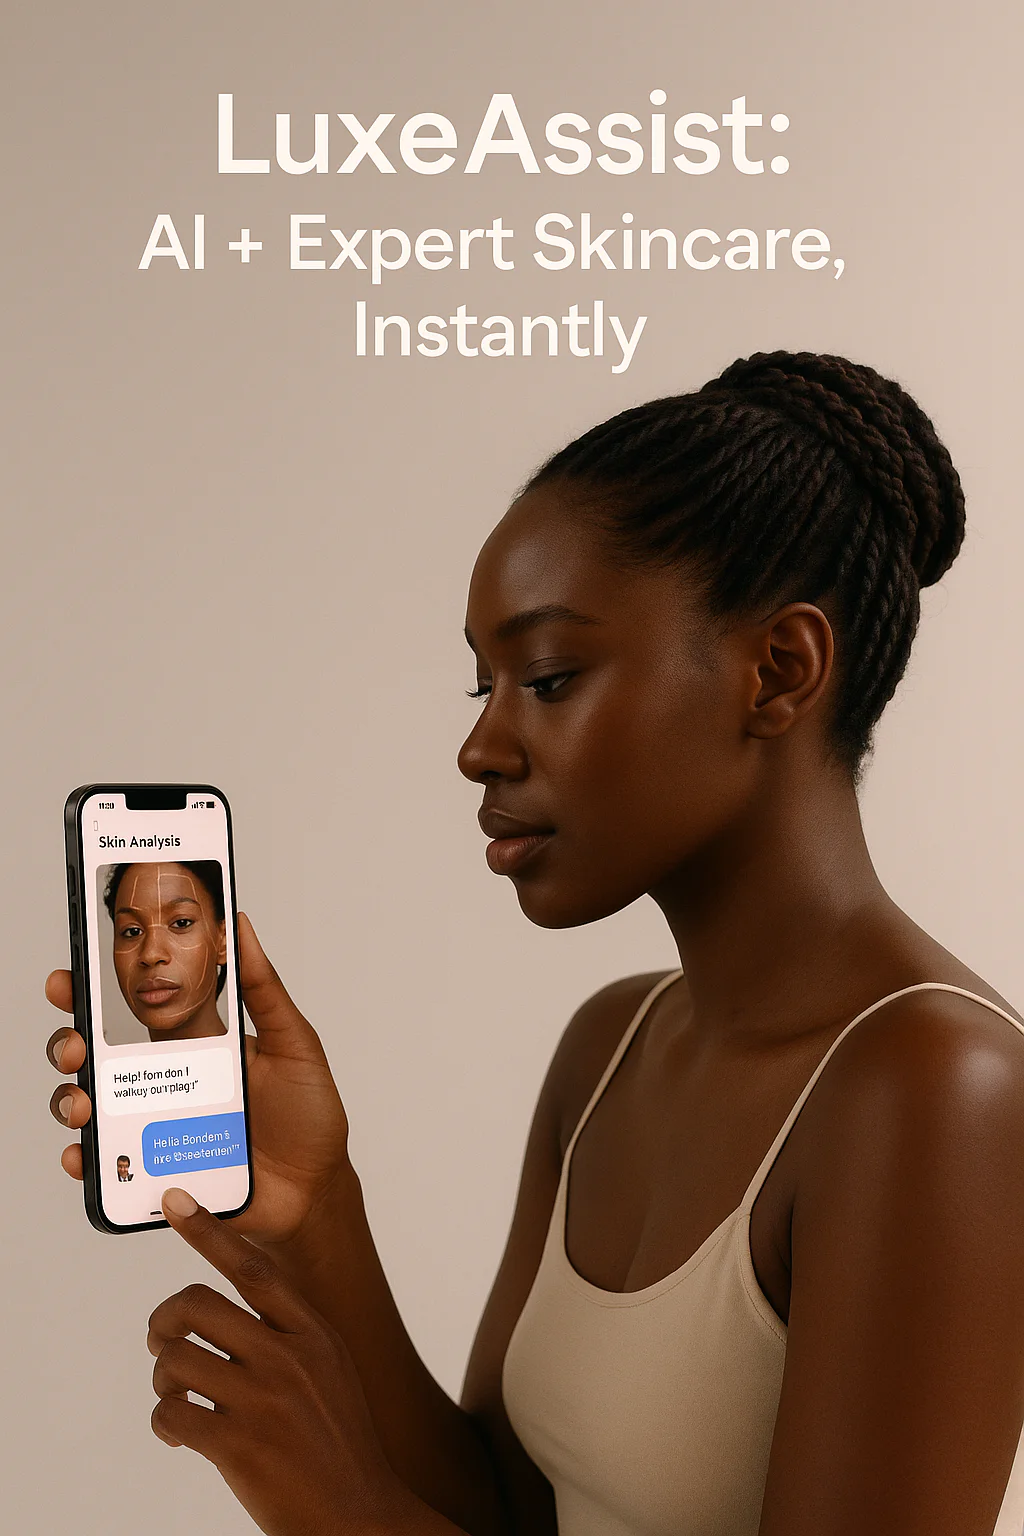
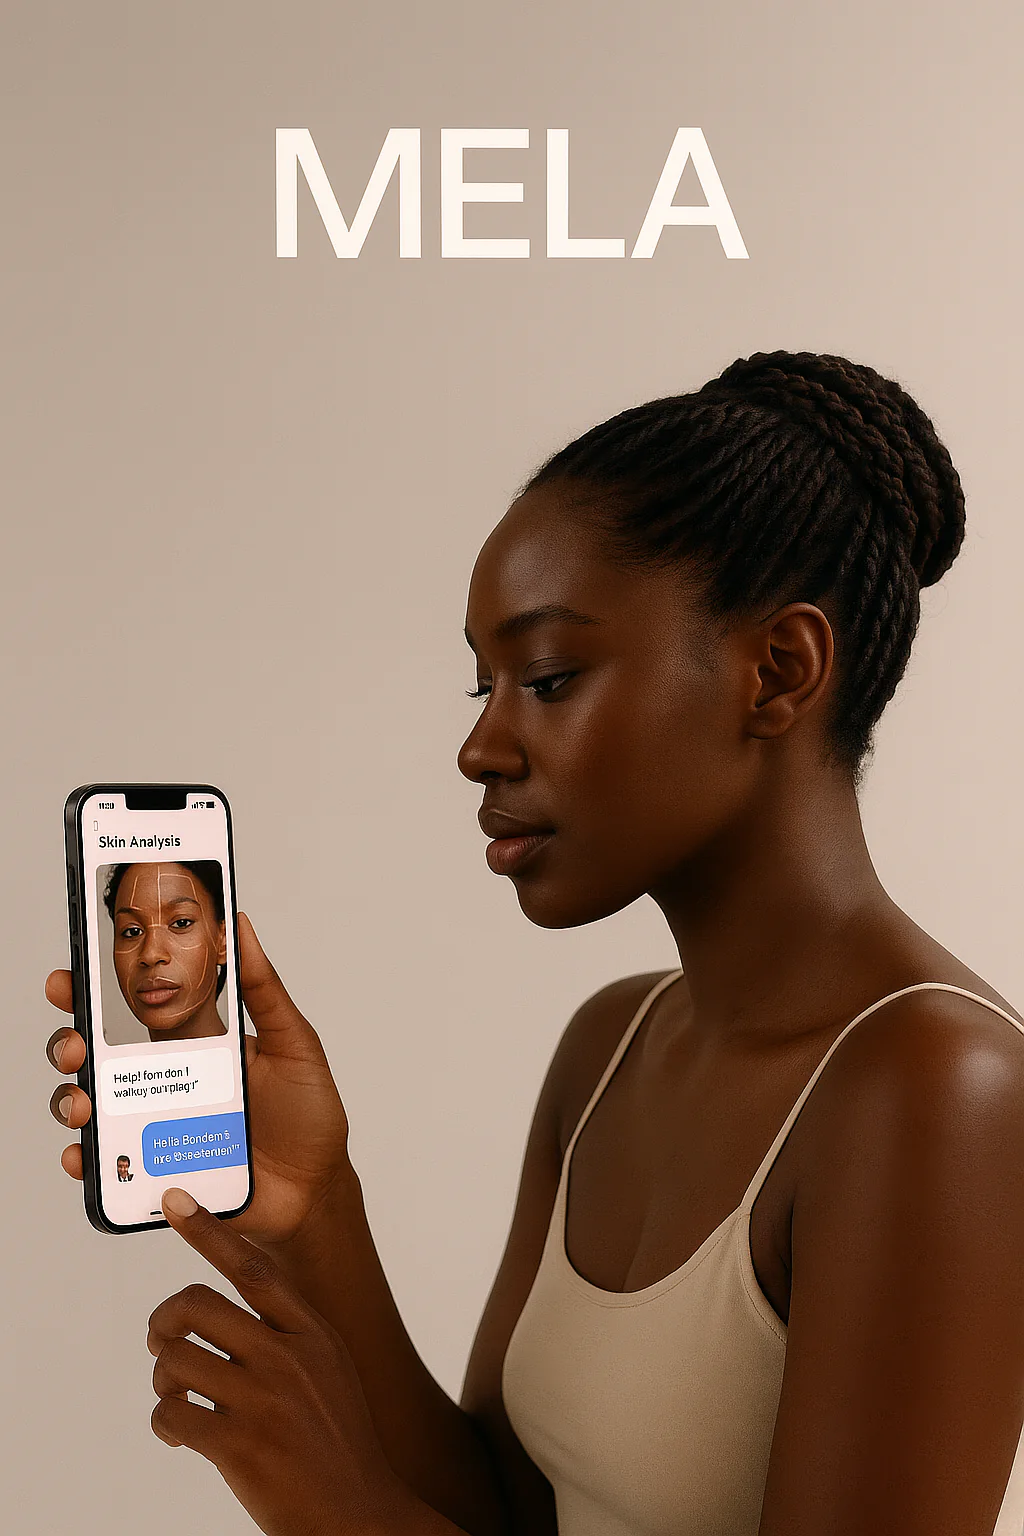
updates

Changed region(s): [[0.125, 0.0625, 0.8125, 0.25], [0.1875, 0.7188, 0.2188, 0.75], [0.1562, 0.75, 0.1875, 0.7812]]

diff --git a/src/app/page.jsx b/src/app/page.jsx
@@ -26,10 +26,10 @@ export default function MainComponent() {
           </div>
           <div className="text-center">
             <h1 className="mb-4 text-5xl md:text-6xl font-bold text-gray-900 font-playfair">
-              Melanin Luxe AI
+              Melanin Luxe
             </h1>
             <p className="text-xl md:text-2xl text-gray-700 font-inter max-w-3xl mx-auto mb-8">
-              Your Personalized Beauty Assistant for Melanin Rich Beauty
+              Your Personalized Beauty Assistant, Designed for Your Skin Tone
             </p>
             <button className="bg-[#FF69B4] hover:bg-[#FF1493] text-white font-inter px-8 py-4 rounded-md text-lg transition-all duration-200">
               Start Your Beauty Journey
@@ -63,7 +63,7 @@ export default function MainComponent() {
                 <div className="absolute inset-0 bg-gradient-to-b from-[#FF69B4]/20 to-transparent pointer-events-none z-20"></div>
                 <img
                   src="/melanin-luxe-app-preview.webp"
-                  alt="Discover Your Health"
+                  alt=""
                   className="w-full h-full object-cover"
                 />
                 <div className="absolute top-0 left-0 right-0 bottom-0 bg-black/5"></div>
@@ -129,14 +129,14 @@ export default function MainComponent() {
           <div className="relative max-w-6xl mx-auto px-4">
             <div className="text-center mb-16">
               <h2 className="text-5xl font-bold text-gray-900 font-playfair mb-6">
-                LuxeAssist: AI + Expert Skincare, Instantly
+                MELA: AI + Expert Skincare, Instantly
               </h2>
               <h3 className="text-2xl text-gray-700 font-inter mb-8">
                 AI-Powered Answers & Expert Connections, Anytime
               </h3>
               <p className="text-xl text-gray-600 font-inter max-w-3xl mx-auto leading-relaxed">
-                LuxeAssist provides instant, AI-driven answers and connects you
-                to our community of skincare experts. Get personalized guidance,
+                MELA provides instant, AI-driven answers and connects you to our
+                community of skincare experts. Get personalized guidance,
                 product recommendations, and expert advice, all within the
                 Melanin Luxe app.
               </p>
@@ -173,7 +173,7 @@ export default function MainComponent() {
                   <div className="absolute inset-0 bg-gradient-to-tr from-[#FF69B4]/20 to-transparent rounded-3xl"></div>
                   <img
                     src="/luxe-assist-preview.webp"
-                    alt="African woman receiving personalized skincare advice through LuxeAssist AI chat interface"
+                    alt="African woman using MELA app for AI-powered skin analysis"
                     className="w-full h-auto rounded-3xl shadow-2xl"
                   />
                 </div>
@@ -233,8 +233,8 @@ export default function MainComponent() {
           </p>
         </div>
 
-        <div className="py-20">
-          <div className="max-w-6xl mx-auto p-16 rounded-3xl bg-gradient-to-br from-white to-pink-50 border border-gray-100 shadow-xl">
+        <div className="py-20 text-center">
+          <div className="max-w-3xl mx-auto p-16 rounded-3xl bg-gradient-to-br from-white to-pink-50 border border-gray-100 shadow-xl">
             <div
               className="relative"
               style={{ animation: "slideInText 0.8s ease-out forwards" }}
@@ -255,106 +255,25 @@ export default function MainComponent() {
           </div>
         </div>
 
-        <div className="py-20 text-center">
-          <div className="max-w-3xl mx-auto p-12 rounded-3xl bg-white border border-gray-200 shadow-lg">
-            <h2 className="text-4xl font-bold text-gray-900 mb-4 font-playfair">
-              Ready to Start Your Beauty Journey?
-            </h2>
-            <p className="text-xl text-gray-700 mb-8">
-              Join thousands of users who have discovered their perfect skincare
-              routine
-            </p>
-            <button className="bg-[#FF69B4] hover:bg-[#FF1493] text-white font-inter px-8 py-4 rounded-md text-lg transition-all duration-200 mb-12">
-              Try Melanin Luxe AI Now
-            </button>
-            <div className="flex flex-col md:flex-row justify-center items-center gap-4">
-              <a
-                href="#"
-                className="w-[200px] h-[60px] bg-black hover:bg-gray-800 rounded-xl flex items-center justify-center px-4 py-2 transition-all duration-200 hover:scale-105"
-              >
-                <div className="flex items-center">
-                  <i className="fab fa-apple text-white text-3xl mr-3"></i>
-                  <div className="text-left">
-                    <div className="text-white text-xs">Download on the</div>
-                    <div className="text-white text-lg font-semibold">
-                      App Store
-                    </div>
-                  </div>
-                </div>
-              </a>
-              <a
-                href="#"
-                className="w-[200px] h-[60px] bg-black hover:bg-gray-800 rounded-xl flex items-center justify-center px-4 py-2 transition-all duration-200 hover:scale-105"
-              >
-                <div className="flex items-center">
-                  <i className="fab fa-google-play text-white text-2xl mr-3"></i>
-                  <div className="text-left">
-                    <div className="text-white text-xs">Get it on</div>
-                    <div className="text-white text-lg font-semibold">
-                      Google Play
-                    </div>
-                  </div>
-                </div>
-              </a>
-            </div>
-          </div>
-        </div>
-
-        <div className="py-20 bg-gradient-to-br from-white to-pink-50">
-          <div className="max-w-7xl mx-auto px-4 sm:px-6 lg:px-8">
-            <div className="text-center mb-16">
-              <h2 className="text-4xl font-bold text-gray-900 font-playfair mb-6">
-                License Our AI Technology
-              </h2>
-              <p className="text-xl text-gray-700 font-inter mb-8">
-                Empower your business with our advanced melanin-focused AI
-                skincare analysis technology
-              </p>
-            </div>
-
-            <div className="grid grid-cols-1 md:grid-cols-3 gap-8 justify-items-center">
-              <div className="w-full max-w-sm p-8 rounded-2xl bg-white border border-gray-200 shadow-lg hover:shadow-xl transition-shadow text-center">
-                <i className="fas fa-brain text-4xl text-[#FF69B4] mb-4"></i>
-                <h3 className="text-xl font-bold text-gray-900 mb-3 font-playfair">
-                  Proprietary AI Engine
-                </h3>
-                <p className="text-gray-700 font-inter">
-                  Access our specialized AI algorithms trained on diverse skin
-                  types and conditions
-                </p>
-              </div>
-
-              <div className="w-full max-w-sm p-8 rounded-2xl bg-white border border-gray-200 shadow-lg hover:shadow-xl transition-shadow text-center">
-                <i className="fas fa-code text-4xl text-[#FF69B4] mb-4"></i>
-                <h3 className="text-xl font-bold text-gray-900 mb-3 font-playfair">
-                  White Label Solution
-                </h3>
-                <p className="text-gray-700 font-inter">
-                  Integrate our technology into your existing products and
-                  services under your brand
-                </p>
-              </div>
-
-              <div className="w-full max-w-sm p-8 rounded-2xl bg-white border border-gray-200 shadow-lg hover:shadow-xl transition-shadow text-center">
-                <i className="fas fa-handshake text-4xl text-[#FF69B4] mb-4"></i>
-                <h3 className="text-xl font-bold text-gray-900 mb-3 font-playfair">
-                  Partnership Support
-                </h3>
-                <p className="text-gray-700 font-inter">
-                  Dedicated technical support and business integration
-                  consulting
-                </p>
-              </div>
-            </div>
-
-            <div className="text-center mt-12">
-              <button className="bg-gray-900 hover:bg-gray-800 text-white font-inter px-8 py-4 rounded-md text-lg transition-all duration-200">
-                Explore Licensing Options
-              </button>
-              <p className="text-gray-600 mt-4 font-inter">
-                Custom solutions available for enterprises and startups
-              </p>
-            </div>
+        <div className="py-16 text-center">
+          <h2 className="text-3xl font-bold text-gray-900 font-playfair mb-8">
+            Download the Melanin Luxe App
+          </h2>
+          <div className="flex flex-col sm:flex-row justify-center items-center gap-6">
+            <a href="#" className="transition-transform hover:scale-105">
+              <img
+                src="/gplay.avif"
+                alt="Get it on Google Play"
+                className="h-16 w-auto"
+              />
+            </a>
+            <a href="#" className="transition-transform hover:scale-105">
+              <img
+                src="/ios.avif"
+                alt="Download on the App Store"
+                className="h-16 w-auto"
+              />
+            </a>
           </div>
         </div>
       </div>
